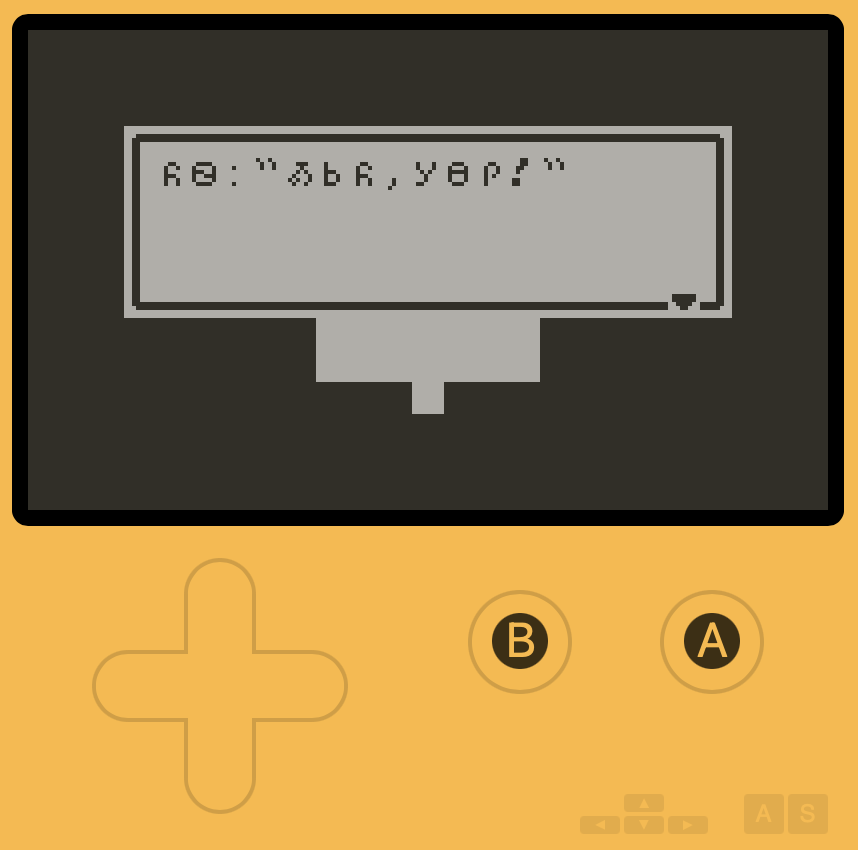
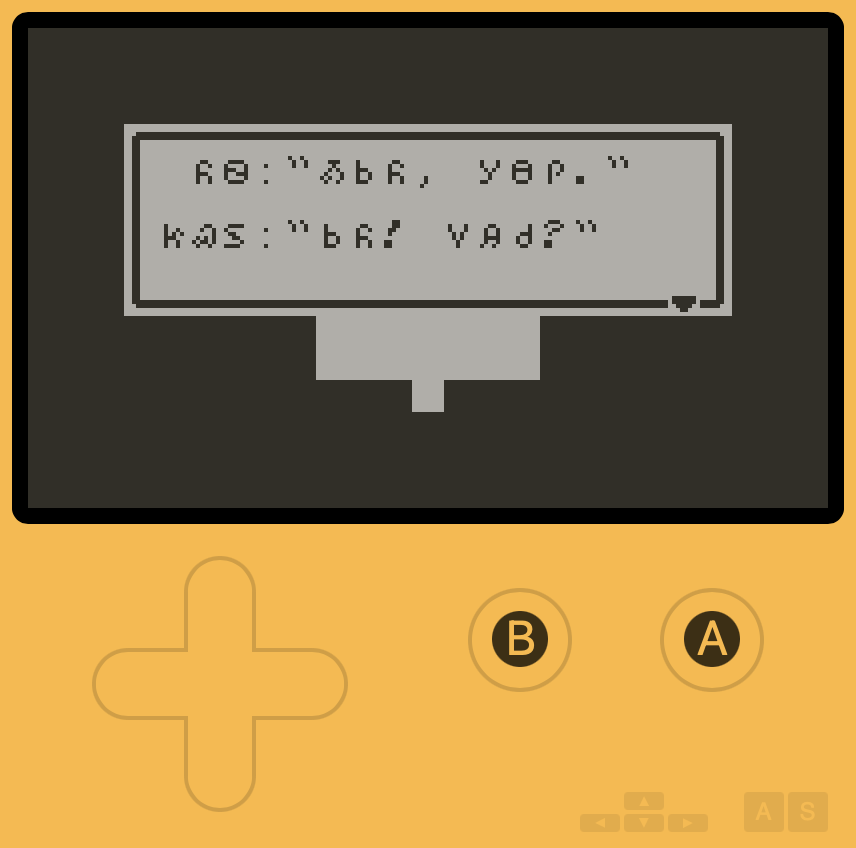
Pics/readme/encoder

diff --git a/encode.js b/encode.js
@@ -1,16 +1,120 @@
 function encode (value) {
 
-// Collapse ᏣᎳᎩ to uppercase
+// Collapse all ᏣᎳᎩ to uppercase
   value = value.toUpperCase()
 
-// Collapse quotes to the same one
-// “” -> " -> $
-// curly singles to '
-// , -> "
+// Collapse curly punctuation
+	value = value.replace(/\“/g,"\"")
+  value = value.replace(/\”/g,"\"")
+  value = value.replace(/\‘/g,"\'")
+  value = value.replace(/\’/g,"\'")
 
-	value = value.replace(/Ꭳ/g,"-")
+// Numbers
+  value = value.replace(/0/g,"u")
+  value = value.replace(/1/g,"'")
+  value = value.replace(/2/g,"M")
+  value = value.replace(/3/g,"(")
+  value = value.replace(/4/g,"X")
+  value = value.replace(/5/g,"d")
+  value = value.replace(/6/g,"x")
+  value = value.replace(/7/g,")")
+  value = value.replace(/8/g,"H")
+  value = value.replace(/9/g,"w")
+
+// Punctuation
+  value = value.replace(/\./g,"#")
+  value = value.replace(/\"/g,"$")
+  value = value.replace(/,/g,"\"")
+  value = value.replace(/:/g,"%")
+  value = value.replace(/\?/g,"&")
+
+// Syllabary
+	value = value.replace(/Ꭰ/g,"*")
+  value = value.replace(/Ꭱ/g,"+")
+  value = value.replace(/Ꭲ/g,",")
+  value = value.replace(/Ꭳ/g,"-")
+  value = value.replace(/Ꭴ/g,".")
+  value = value.replace(/Ꭵ/g,"/")
+  value = value.replace(/Ꭶ/g,"0")
+  value = value.replace(/Ꭷ/g,"1")
+  value = value.replace(/Ꭸ/g,"2")
+  value = value.replace(/Ꭹ/g,"3")
+  value = value.replace(/Ꭺ/g,"4")
+  value = value.replace(/Ꭻ/g,"5")
+  value = value.replace(/Ꭼ/g,"6")
+  value = value.replace(/Ꭽ/g,"7")
+  value = value.replace(/Ꭾ/g,"8")
+  value = value.replace(/Ꭿ/g,"9")
+  value = value.replace(/Ꮀ/g,":")
+  value = value.replace(/Ꮁ/g,";")
+  value = value.replace(/Ꮂ/g,"<")
+  value = value.replace(/Ꮃ/g,"=")
+  value = value.replace(/Ꮄ/g,">")
+  value = value.replace(/Ꮅ/g,"?")
+  value = value.replace(/Ꮆ/g,"@")
+  value = value.replace(/Ꮇ/g,"A")
+  value = value.replace(/Ꮈ/g,"B")
+  value = value.replace(/Ꮉ/g,"C")
+  value = value.replace(/Ꮊ/g,"D")
+  value = value.replace(/Ꮋ/g,"E")
+  value = value.replace(/Ꮌ/g,"F")
+  value = value.replace(/Ꮍ/g,"G")
+  value = value.replace(/Ꮎ/g,"H")
+  value = value.replace(/Ꮏ/g,"I")
+  value = value.replace(/Ꮐ/g,"J")
+  value = value.replace(/Ꮑ/g,"K")
+  value = value.replace(/Ꮒ/g,"L")
+  value = value.replace(/Ꮓ/g,"M")
+  value = value.replace(/Ꮔ/g,"N")
+  value = value.replace(/Ꮕ/g,"O")
+  value = value.replace(/Ꮖ/g,"P")
+  value = value.replace(/Ꮚ/g,"Q")
+  value = value.replace(/Ꮘ/g,"R")
+  value = value.replace(/Ꮙ/g,"S")
+  value = value.replace(/Ꮚ/g,"T")
+  value = value.replace(/Ꮛ/g,"U")
+  value = value.replace(/Ꮝ/g,"V")
+  value = value.replace(/Ꮜ/g,"W")
+  value = value.replace(/Ꮞ/g,"X")
   value = value.replace(/Ꮟ/g,"Y")
+  value = value.replace(/Ꮠ/g,"Z")
+  value = value.replace(/Ꮡ/g,"[")
+  value = value.replace(/Ꮢ/g,"/")
+  value = value.replace(/Ꮣ/g,"]")
+  value = value.replace(/Ꮤ/g,"^")
+  value = value.replace(/Ꮥ/g,"_")
+  value = value.replace(/Ꮦ/g,"`")
+  value = value.replace(/Ꮧ/g,"a")
+  value = value.replace(/Ꮨ/g,"b")
+  value = value.replace(/Ꮩ/g,"c")
+  value = value.replace(/Ꮪ/g,"d")
+  value = value.replace(/Ꮫ/g,"e")
+  value = value.replace(/Ꮬ/g,"f")
+  value = value.replace(/Ꮭ/g,"g")
+  value = value.replace(/Ꮮ/g,"h")
+  value = value.replace(/Ꮯ/g,"i")
+  value = value.replace(/Ꮰ/g,"j")
+  value = value.replace(/Ꮱ/g,"k")
+  value = value.replace(/Ꮲ/g,"l")
+  value = value.replace(/Ꮳ/g,"m")
+  value = value.replace(/Ꮴ/g,"n")
+  value = value.replace(/Ꮵ/g,"o")
+  value = value.replace(/Ꮶ/g,"p")
+  value = value.replace(/Ꮷ/g,"q")
+  value = value.replace(/Ꮸ/g,"r")
+  value = value.replace(/Ꮹ/g,"s")
+  value = value.replace(/Ꮺ/g,"t")
+  value = value.replace(/Ꮻ/g,"u")
+  value = value.replace(/Ꮼ/g,"v")
+  value = value.replace(/Ꮽ/g,"w")
+  value = value.replace(/Ꮾ/g,"x")
+  value = value.replace(/Ꮿ/g,"y")
+  value = value.replace(/Ᏸ/g,"z")
+  value = value.replace(/Ᏹ/g,"{")
   value = value.replace(/Ᏺ/g,"|")
+  value = value.replace(/Ᏻ/g,"}")
+  value = value.replace(/Ᏼ/g,"~")
+
 
 
 	return value

diff --git a/README.md b/README.md
@@ -2,9 +2,9 @@
 
 ᎤᏂᎩᏔ/Unikta (\/uːniːkʰtʰɑ/ 'seeds') is a Cherokee font for [Playdate Pulp](https://play.date/pulp/), a tool that lets users create simple videogames and interactive stories without writing any code which can then be played in a web browser, on a computer, or on a [Playdate](https://play.date).
 
-Pulp is easy to use because of its limitations, but these limitations also include only being able to type unaccented letters of the Latin alphabet. ᎤᏂᎩᏔ/Unikta works around this by replacing the stock glyphs with the Cherokee syllabary, so that while Pulp still sees them as the original characters, they display as Cherokee syllabary instead.
+Pulp is easy to use because of its limitations, but these limitations also include only being able to use the (unaccented) Latin alphabet. ᎤᏂᎩᏔ/Unikta works around this by replacing the stock glyphs with the [Cherokee syllabary](https://en.wikipedia.org/wiki/Cherokee_syllabary), so that while Pulp still sees them as the original letters, numbers, and punctuation, they display as Cherokee syllabary characters instead.
 
-For example, with Unikta loaded in, typing the following:
+So with Unikta loaded into Pulp, typing the following:
 ```
 -Y|" +@9!
 ```
@@ -12,13 +12,19 @@ gives this result:
 ![image](images/osiyo_elohi.png)
 <p align = "center">ᎣᏏᏲ, ᎡᎶᎯ! 'Hello World!'</p>
 
-A full chart of the mapping is [below](#mapping)
+A full chart of how Unikta maps characters mapping is [below](#mapping), but you don't need to worry about it to use it; you can use the Uni
 
 <!-- link to mapping here? and to the converter-->
 
 Since there's only space for 95 glyphs in a Pulp font and the Cherokee syllabary takes up 85 of those slots, punctuation is limited to the bare minimum — space, comma, period, exclamation mark, question mark, quotes, and a colon — and most of the numbers from 0-9 are rendered by visual equivalents in the syllabary: Ꮻ _wi_ for '0', Ꮽ _wu_ for '9', etc.
 
 ## Using Unikta
+
+- Download `Unikta.png` from this repository
+- After starting a new project in Pulp, go to the 'Font' page from the left-hand menu; then click the 'Import' button on top of the font preview and direct it to `Unikta.png`
+- Use the Unikta Encoder to type in anything you want to display in syllabary; it will give you the sequence to copy-paste into Pulp for the correct mapping
+-
+
 
 ## Mapping
 <!-- touch up formatting in table -- center, bold some stuff, etc. (MD cheatsheet has)-->
@@ -89,3 +95,5 @@ Since there's only space for 95 glyphs in a Pulp font and the Cherokee syllabary
 ## Acknowledgments & extras
 
 Project inspired by weepjp's [Japanese Pulp localization test](https://github.com/weepjp/Playdate-Pulp-Sample-jp).
+
+Encoder modeled on r12a's [Pinyin to IPA transcoder](https://github.com/r12a/app-pinyin-phonetics)
